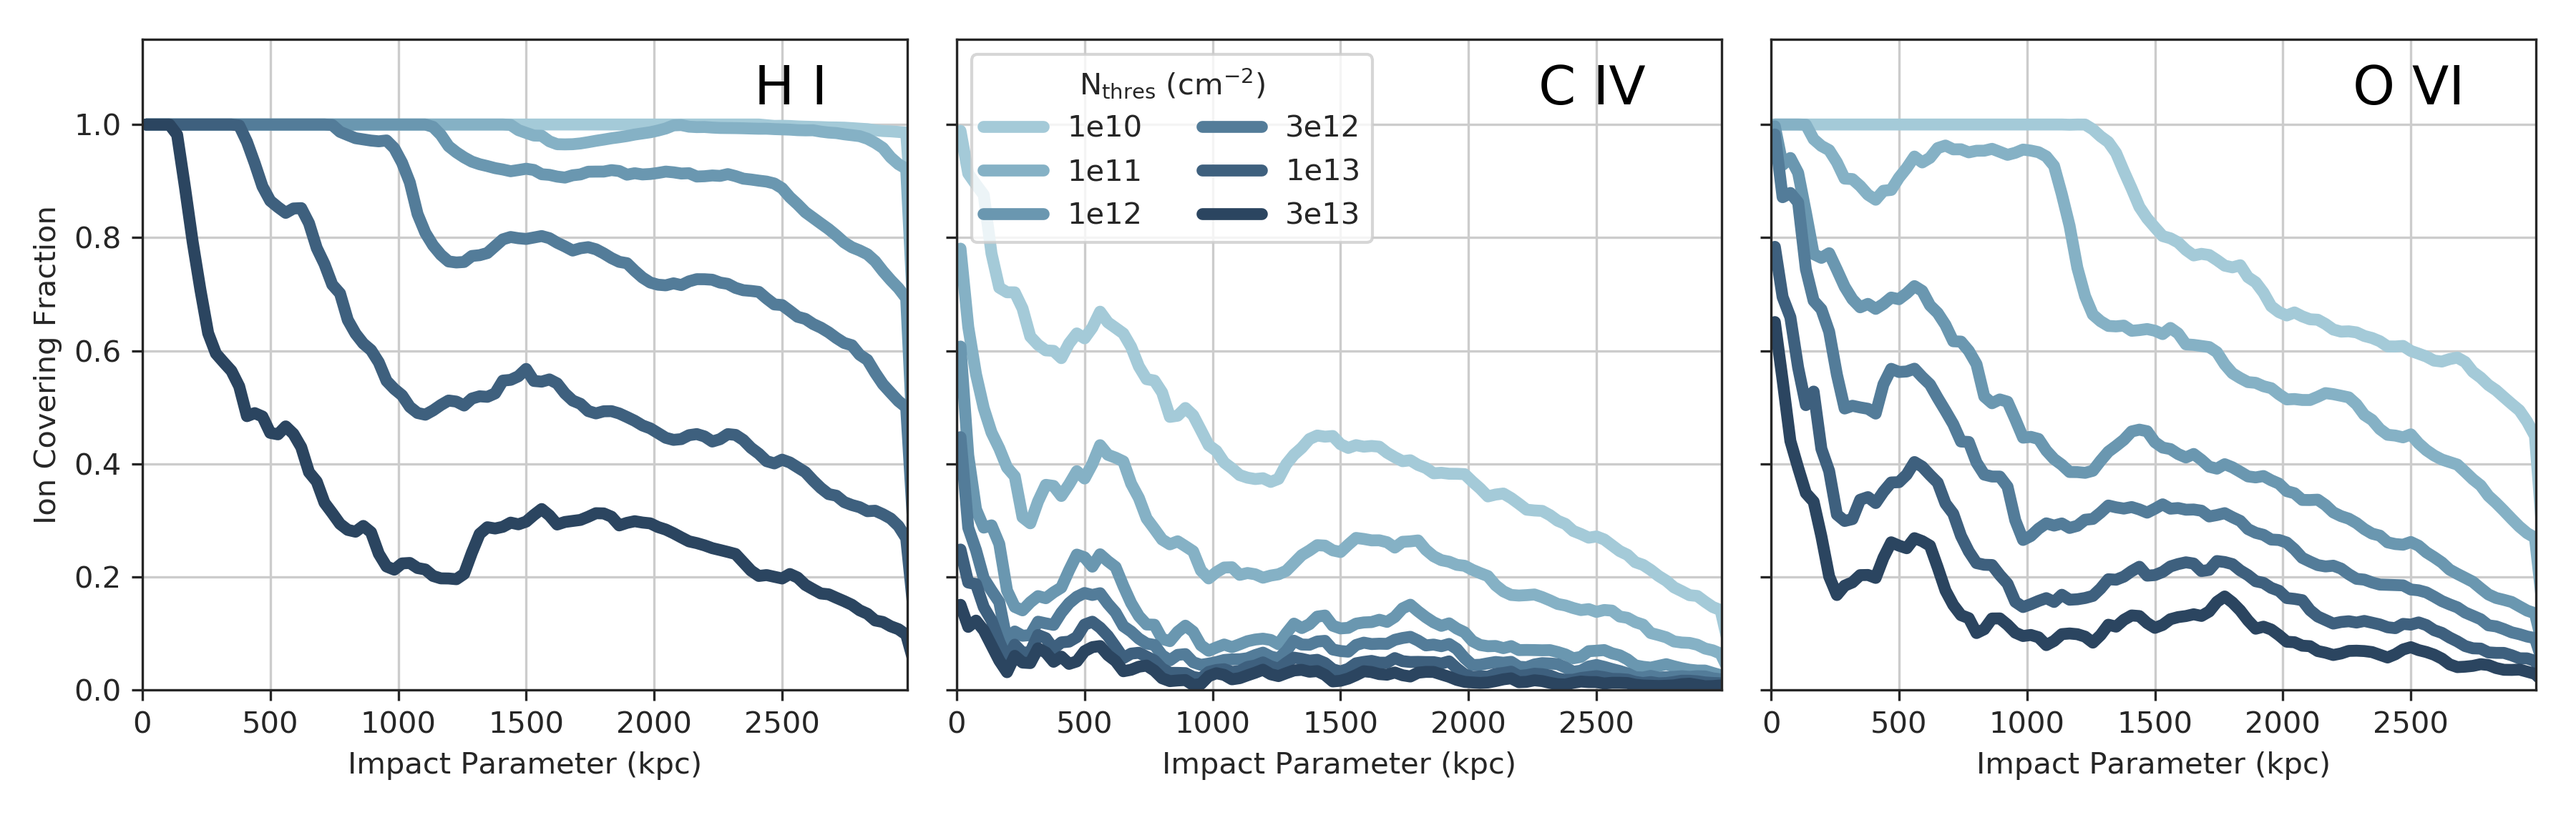
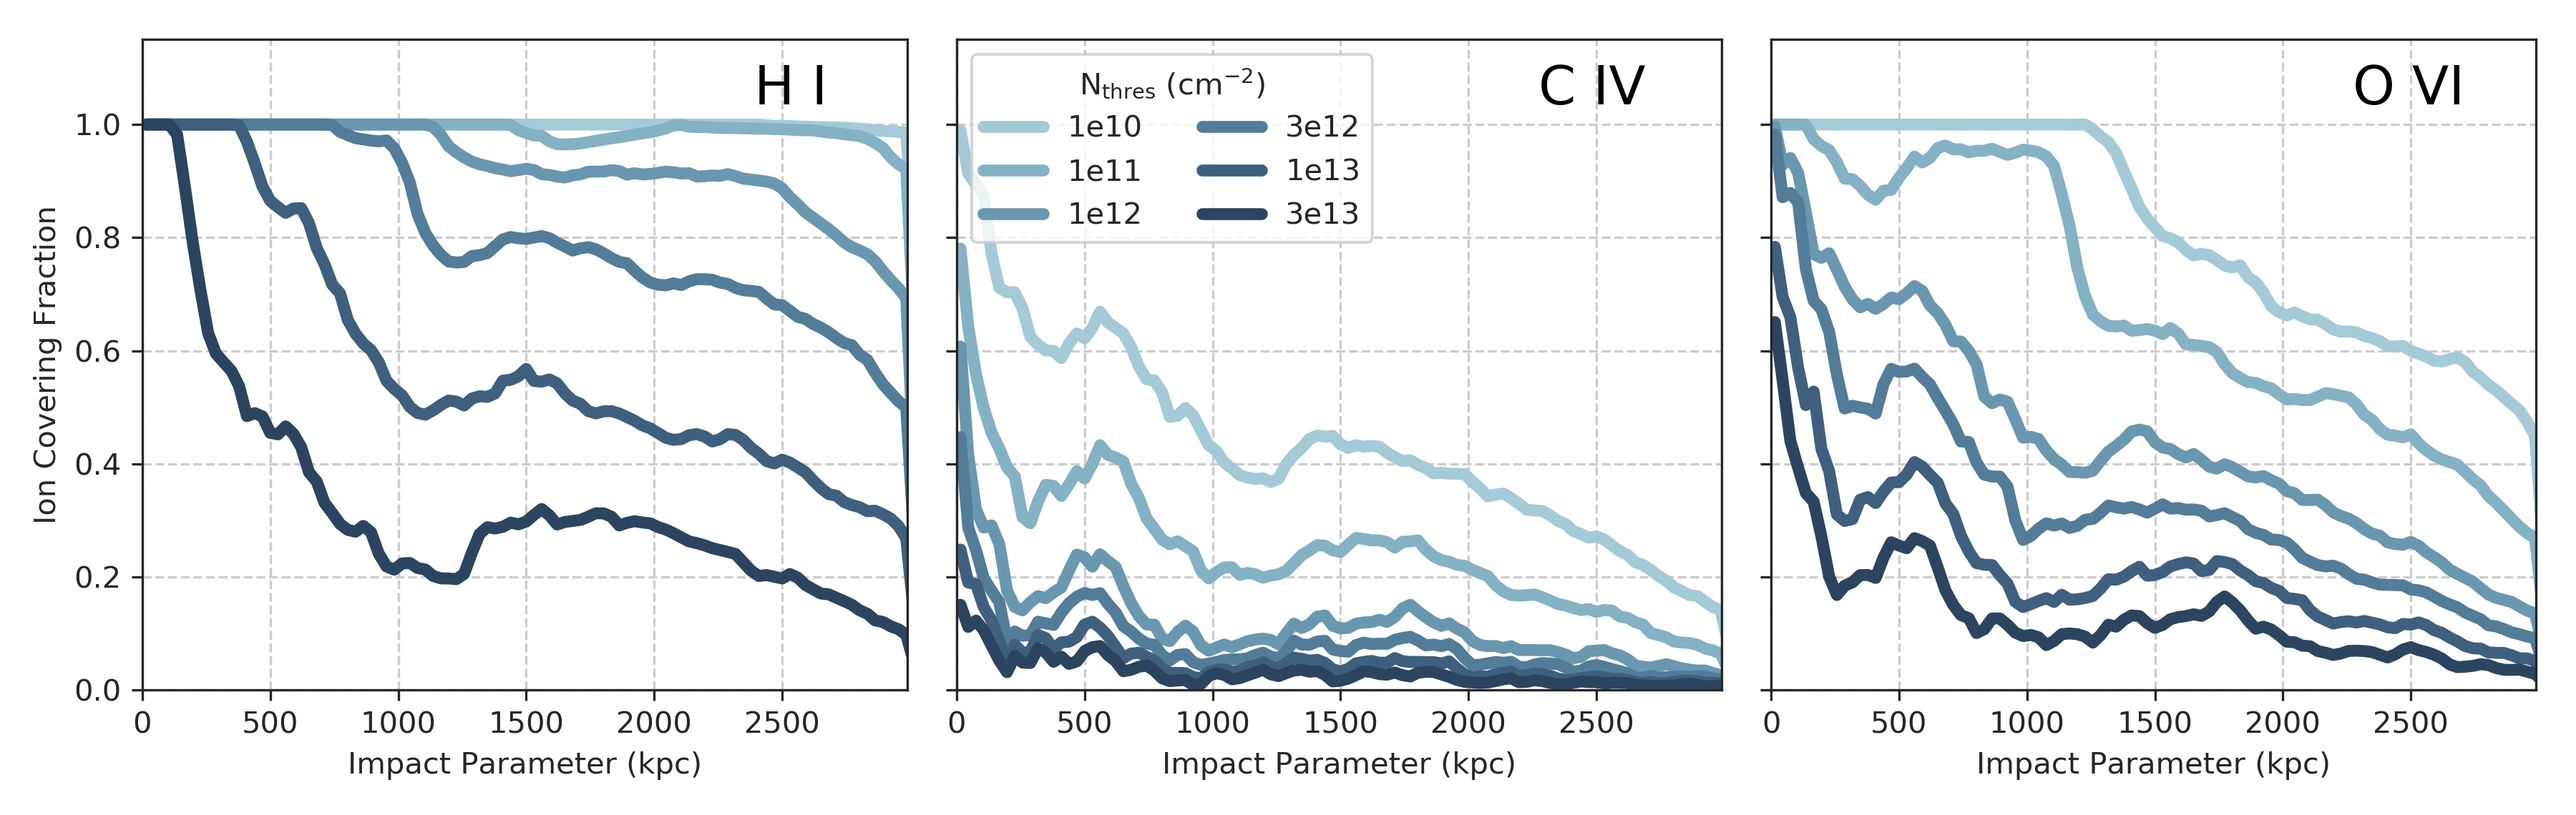
changing figure aesthetics

diff --git a/plot_projection_halos.py b/plot_projection_halos.py
@@ -27,7 +27,7 @@ cluster_z = cluster_center[2]
 
 # load sightline properties
 # really "ray_z" and "ray_x" are in plot coordinates, not the coordinates of the simulation
-ray_id_list, ray_z_list, ray_x_list = np.loadtxt('coordinate_list.dat', \
+ray_id_list, ray_z_list, ray_x_list = np.loadtxt('data/coordinate_list.dat', \
                                     skiprows = 1, unpack=True)
 
 dx = ray_x_list[5]*0.1
@@ -36,19 +36,20 @@ print(dx, dz)
 
 zfield = ('gas', 'O_p5_number_density')
 p = yt.ProjectionPlot(ds, 'y', zfield, weight_field = None, \
-                      width = (6000, 'kpc'), center = cluster_center)
+                      width = (6000, 'kpc'), center = cluster_center, fontsize = 16)
 
 
 
 p.set_cmap(zfield, 'dusk')
-p.set_zlim(zfield, 7e12, 1e15)
-#p.hide_axes()
+p.set_colorbar_label(zfield, '$\mathrm{O\ VI\ Column\ Density\ (cm}^{-2})$')
+p.set_zlim(zfield, 1e12, 1e15)
+p.hide_axes()
+p.annotate_scale()
 
+#mass_bins = [[1e9, 3.16228e9], [3.16228e9, 1e10], [1e10, 1e15], [1e9, 1e15]]
+#labels = ['low_mass', 'medium_mass', 'high_mass', 'all']
 
-mass_bins = [[1e9, 3.16228e9], [3.16228e9, 1e10], [1e10, 1e15], [1e9, 1e15]]
-labels = ['low_mass', 'medium_mass', 'high_mass', 'all']
-
-mass_bins = [[1e7, 1e15]]
+mass_bins = [[1e9, 1e15]]
 labels = ['all']
 
 
@@ -59,15 +60,14 @@ for mass_range, label in zip(mass_bins, labels):
     for ray_id, plot_x, plot_z in zip(ray_id_list, ray_x_list, ray_z_list):
         p.annotate_marker((plot_x,plot_z), marker = '*', coord_system = 'plot', \
                       plot_args={'color':'darkseagreen', 's':500, 'zorder':10, 'edgecolor':'black'})
-        p.annotate_text((plot_x+dx, plot_z+dx), "%i"%(ray_id), coord_system = 'plot', \
-                        text_args={'color':'red', 'zorder':11})
+#        p.annotate_text((plot_x+dx, plot_z+dx), "%i"%(ray_id), coord_system = 'plot', \
+ #                       text_args={'color':'red', 'zorder':11})
     # annotate galaxy halos
     mask = (mstars > mass_range[0]) & (mstars < mass_range[1])
     for center, rvir in zip(centers[mask], rvirs[mask]):
         yt_cen = (center / ds.length_unit).d
         p.annotate_sphere(yt_cen, radius = (rvir, 'kpc'), circle_args={'color':'white', 'zorder':1})
-    p.save('/nobackup/ibutsky/plots/YalePaper/romulusC.%06d_projection_OVI_sightlines_halos_%s_2.png'%(output, label))
-
-    p.annotate_clear()
+        p.save('romulusC_%06d_projection_OVI_sightlines_halos_%s.png'%(output, label))
+        p.annotate_clear()
 
 

diff --git a/plot_region_projection.py b/plot_region_projection.py
@@ -69,11 +69,12 @@ for i, ray_id in enumerate(ray_list):
     col = i - ncols*row 
     print(row,col)
     img_data = np.array(frb['ray_%i_%s'%(ray_id, field[1])])
-    img_data = ipd.crop_imshow(img_data, data_min, data_max, data_min, data_max)
+#    img_data = ipd.crop_imshow(img_data, data_min, data_max, data_min, data_max)
     ax = axes[row][col]
-        
+    # note: the extent call makes the units of the plot 0 to 1200 (physical) instead of 0 to 1600 (number of pixels)
     im = ax.imshow(img_data, origin = 'lower', norm = LogNorm(),vmin = zlims[0], vmax = zlims[1], \
                    extent = [rmin, rmax, rmin, rmax], zorder = 1)
+    ax.scatter(600, 600, marker = '+', s = 200, c = 'white', zorder = 10)
     im.set_cmap(cmap)
     
     ax.xaxis.set_visible(False)
@@ -87,6 +88,7 @@ for i, ray_id in enumerate(ray_list):
         ax.annotate('', xy = (1000, 100),xycoords = 'data',  xytext=(1100, 100), textcoords='data', \
                     arrowprops=dict(arrowstyle="-", connectionstyle = "arc3", linewidth = 3, edgecolor = "white", facecolor = "white"))
         ax.annotate('100 kpc', xy=(970, 130))
+
 
 # And now we're done!
 fig.savefig("multipanel_plot_romulusC_%i_sightlines.png"%(output))

diff --git a/plot_multipanel_romulusC.py b/plot_multipanel_romulusC.py
@@ -77,6 +77,11 @@ for i in range(nrows*ncols):
     cbar.set_label(cbar_title_list[i], color = 'white')
 
 
+w = 500 * 1600. / 5000.
+axes[1][0].annotate('', xy = (1200, 100),xycoords = 'data',  xytext=(1200+w, 100), textcoords='data', \
+                    arrowprops=dict(arrowstyle="-", connectionstyle = "arc3", linewidth = 3, \
+                    edgecolor = "white", facecolor = "white"))
+axes[1][0].annotate('500 kpc', xy=(1170, 150))
 # And now we're done!
 fig.savefig("multipanel_plot_romulusC_%i.png"%(output))
 #fig.savefig("romulusC_HI.png", dpi = 300)

diff --git a/plot_gas_temperature_profile.py b/plot_gas_temperature_profile.py
@@ -9,9 +9,7 @@ import romulus_analysis_helper as rom_help
 import ion_plot_definitions as ipd
 import seaborn as sns
 
-sns.set_style("white",{'font.family':'serif', 'axes.grid': True, "ytick.major.size": 0.1,
-                "ytick.minor.size": 0.05,
-                'grid.linestyle': '--'})
+sns.set_style("ticks",{'axes.grid': True, 'grid.linestyle': '--'})
 
 output = int(sys.argv[1])
 rvir = rom_help.get_romulus_rvir('romulusC', output)

diff --git a/plot_multipanel_halo_ion.py b/plot_multipanel_halo_ion.py
@@ -11,7 +11,7 @@ import seaborn as sns
 #sns.set_style("white",{'font.family':'serif', 'axes.grid': True, "ytick.major.size": 0.1,
  #               "ytick.minor.size": 0.05,
   #              'grid.linestyle': '--'})
-sns.set_style('ticks')#, {'font.family':'serif'})
+sns.set_style("ticks",{'axes.grid': True, 'grid.linestyle': '--'})
 
 import ion_plot_definitions as ipd
 

diff --git a/plot_romulus_compare.py b/plot_romulus_compare.py
@@ -8,9 +8,7 @@ import sys
 from matplotlib.colors import LogNorm
 
 import seaborn as sns
-sns.set_style("white",{'font.family':'serif', 'axes.grid': True, "ytick.major.size": 0.1,
-                "ytick.minor.size": 0.05,
-                'grid.linestyle': '--'})
+sns.set_style("ticks",{'axes.grid': True, 'grid.linestyle': '--'})
 
 import ion_plot_definitions as ipd
 

diff --git a/plot_cfrac_threshold.py b/plot_cfrac_threshold.py
@@ -8,7 +8,7 @@ import sys
 from matplotlib.colors import LogNorm
 
 import seaborn as sns
-sns.set_style("ticks",{'axes.grid': True, })
+sns.set_style("ticks",{'axes.grid': True, 'grid.linestyle': '--'})
 
 import ion_plot_definitions as ipd
     
